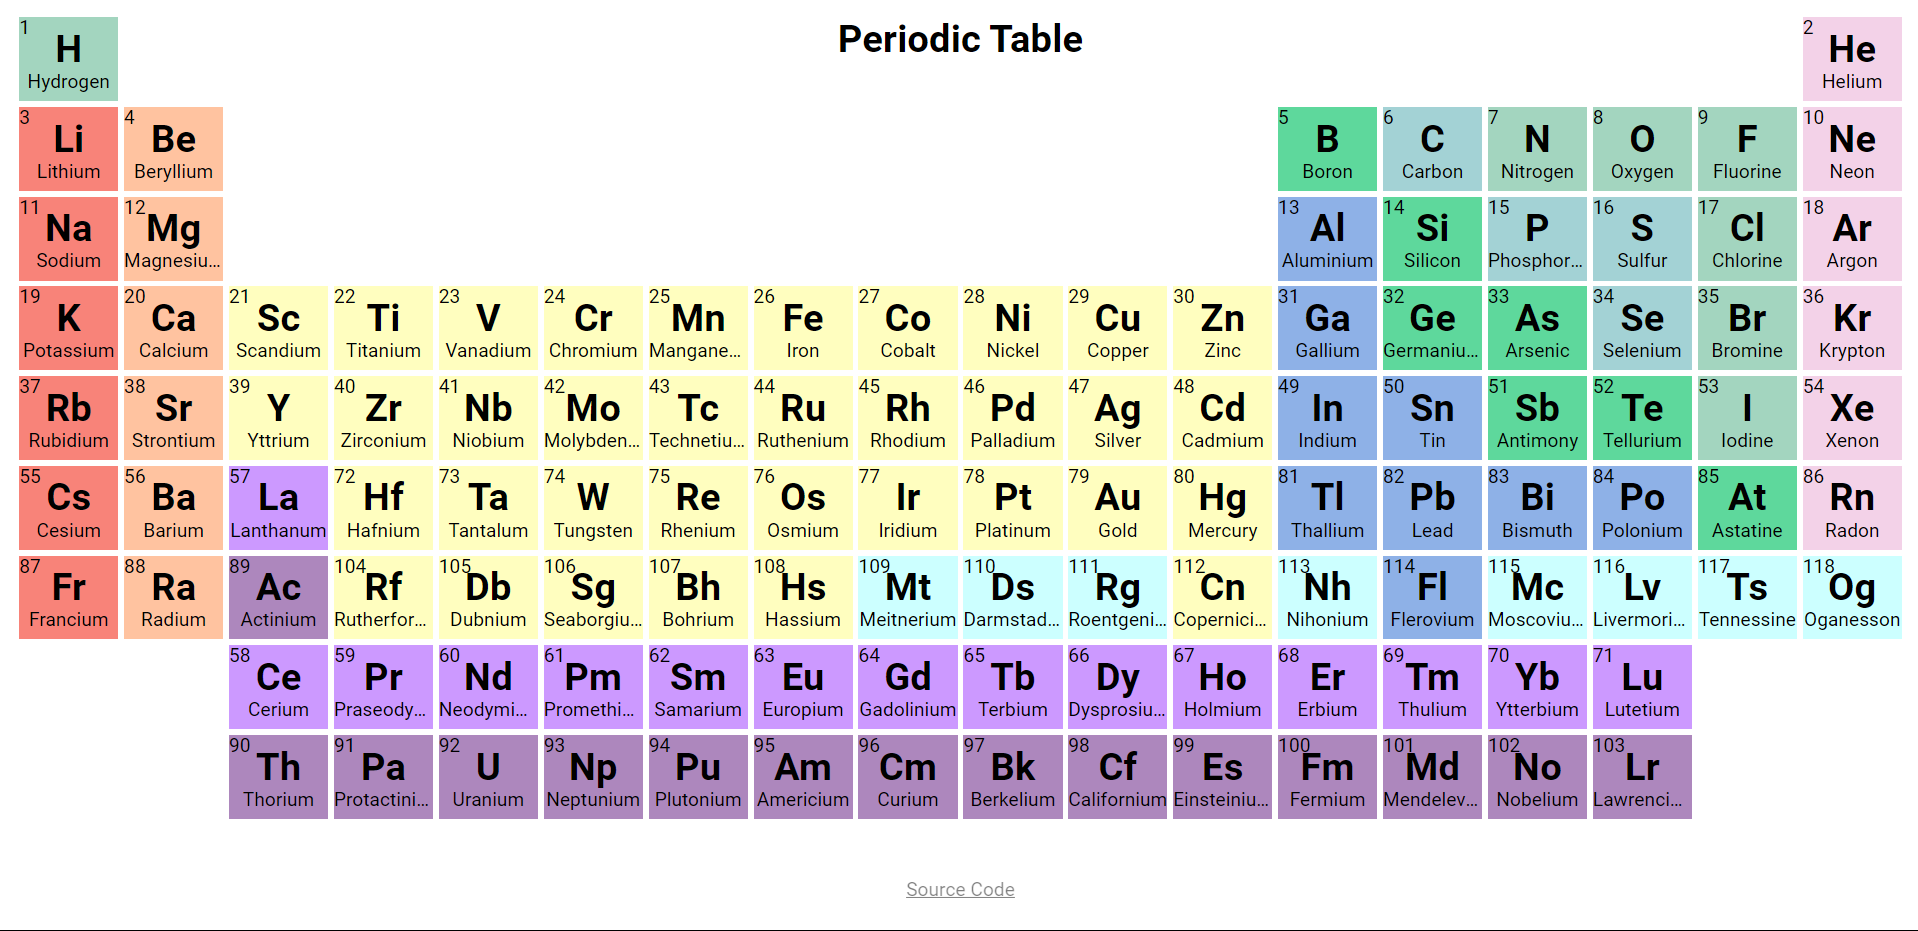
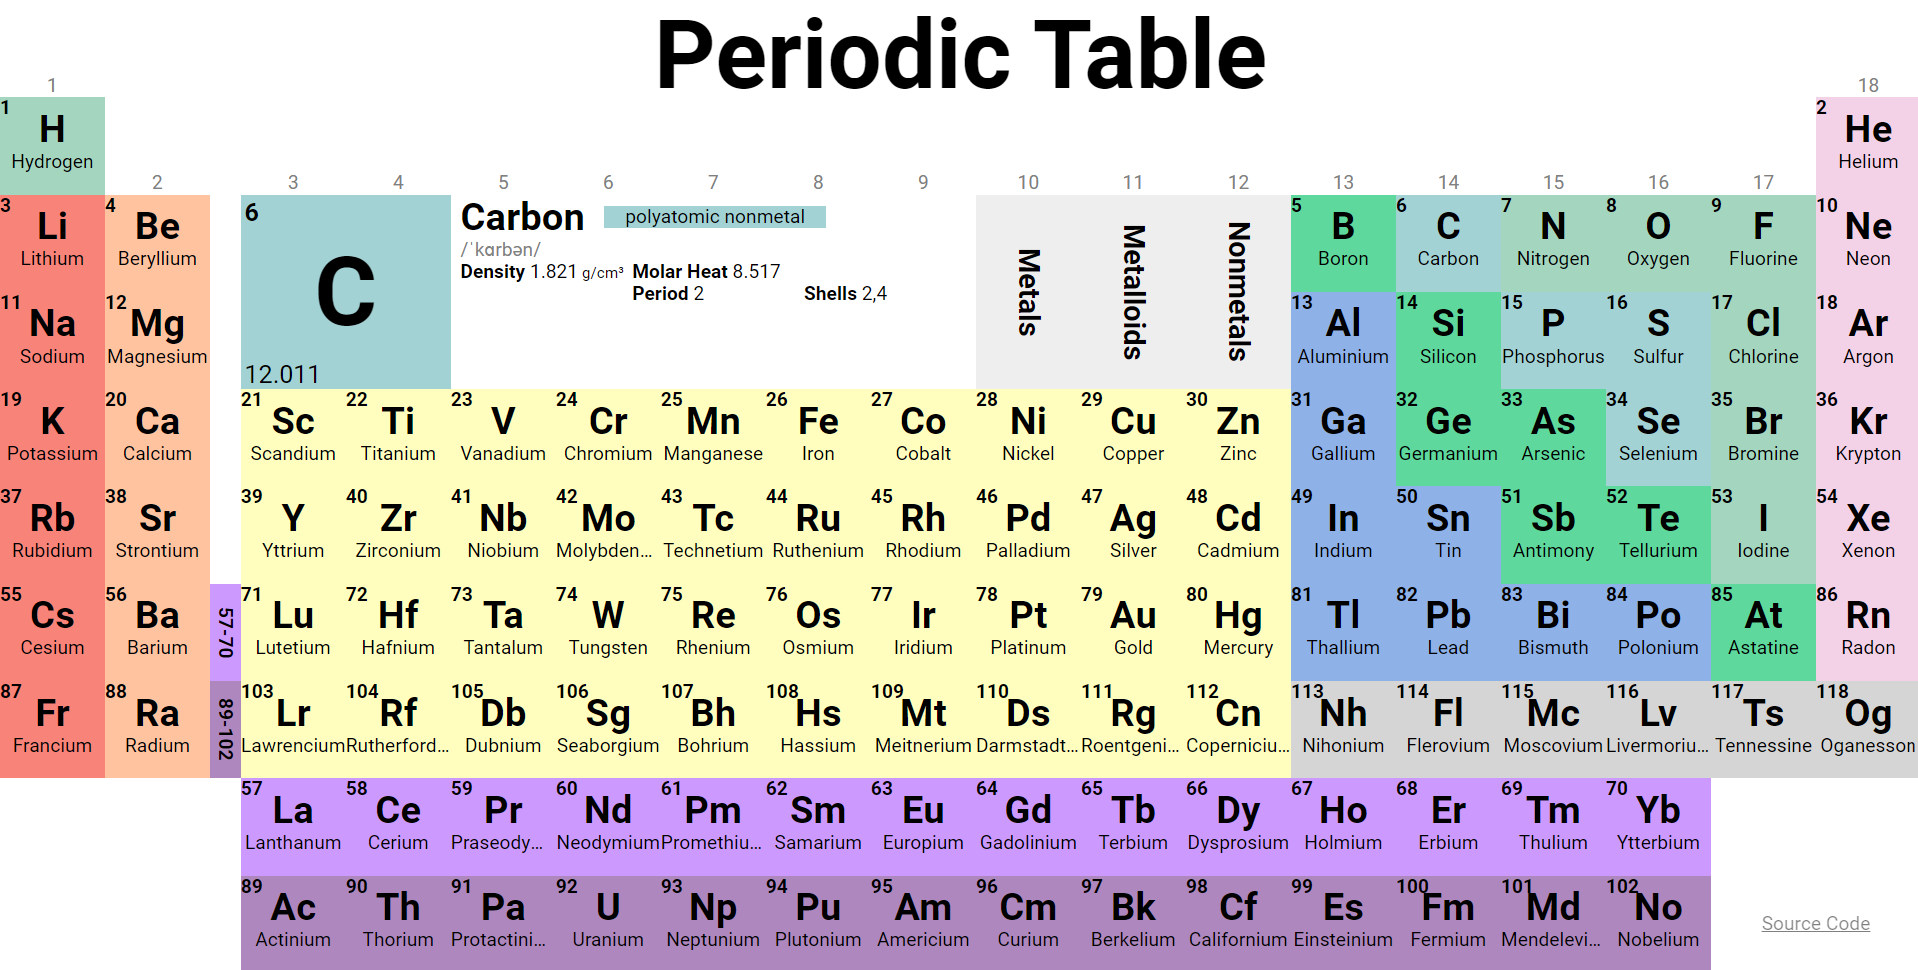
a

diff --git a/src/components/InfoBox.tsx b/src/components/InfoBox.tsx
@@ -18,6 +18,8 @@ export default function InfoBox({ element/* , handlecloseInfo */ }) {
     density,
     melt,
     boil,
+    shells,
+    period,
   } = element
 
   return (
@@ -35,40 +37,41 @@ export default function InfoBox({ element/* , handlecloseInfo */ }) {
         >
           Close [&times;]
         </div> */}
-        <div>
-          <div style={
-            {
-              display: 'flex',
-              gap: '1vw',
-              alignItems: 'center',
-            }
-          }>
-            <h1 className='big_title'>{name}</h1>
-            <span className={`${category}`} style={{
-              padding: '0 1.1vw',
-            }}
+        <div style={
+          {
+            display: 'flex',
+            gap: '1vw',
+            alignItems: 'center',
+          }
+        }>
+          <h1 className='big_title'>{name}</h1>
+          <span className={`${category}`} style={{
+            padding: '0 1.1vw',
+          }}
 
-            >{category}</span>
+          >{category}</span>
+        </div>
+        <div className='ipa' style={{ color: 'gray' }}>/{getIPA(symbol)}/</div>
+       
+        <div className='atom_info'>
+          <div> {density && <><strong>Density</strong> {density}<small> g/cm³</small></>}</div>
+          <div> {molar_heat && <><strong>Molar Heat</strong> {molar_heat}</>}</div>
+          <div> {melt && <><strong>Melt</strong> {melt}K</>}</div>
+          <div> {boil && <><strong>Boil</strong> {boil}K</>}</div>
+          <div> {period && <strong>Period</strong>} {period}</div>
+          <div> {shells && <><strong>Shells</strong> {shells.join(",")}</>}</div>
+        </div>
+        {appearance && (
+          <div className='appearance'>
+            <strong>Appearance</strong> {appearance}
           </div>
-          <div className='ipa' style={{color: 'gray'}}>/{getIPA(symbol)}/</div>
-          {appearance && (
-            <div className='appearance'>
-              <strong>Appearance</strong> {appearance}
-            </div>
-          )}
-          <div className='atom_info'>
-            <div><strong>Density</strong> {density}</div>
-            {molar_heat && <div><strong>Molar Heat</strong> {molar_heat}</div>}
-            {melt && <div><strong>Melt</strong> {melt}K</div>}
-            {boil && <div><strong>Boil</strong> {boil}K</div>}
-          </div>
-          {/*           <div>
+        )}
+        {/*           <div>
             {summary} ...{" "}
             <a target='_blank' href={source}>
               Source
             </a>
           </div> */}
-        </div>
       </div>
     </>
   )

diff --git a/src/App.tsx b/src/App.tsx
@@ -30,6 +30,11 @@ export default function App() {
     <>
       <div id='table'>
         <h1 id="site-title">Periodic Table</h1>
+        {/* groups 1-18 */}
+
+        {Array.from(Array(18).keys()).map((i) => (
+          <div key={i} className={`group-num group-num-${i + 1}`}>{i + 1}</div>
+        ))}
         {/* Elements 1-4 */}
         {populateElements(1, 4)}
         {/* Information Table */}
@@ -46,6 +51,13 @@ export default function App() {
         <div></div>
         {populateElements(39, 56)}
         <div
+          style={{
+            width: '1.6vmax',
+            display: 'flex',
+            justifyContent: 'center',
+            alignItems: 'center',
+            writingMode: 'vertical-rl',
+          }}
           className={`element lanthanide`}
         >
           <div className='number'>57-70</div>
@@ -55,6 +67,13 @@ export default function App() {
 
 
         <div
+          style={{
+            width: '1.6vmax',
+            display: 'flex',
+            justifyContent: 'center',
+            alignItems: 'center',
+            writingMode: 'vertical-rl',
+          }}
           className={`element actinide`}
         >
           <div className='number'>89-102</div>
@@ -65,23 +84,26 @@ export default function App() {
         {populateElements(57, 70)}
         {/* Actionoids 90-103 */}
         {populateElements(89, 102)}
+
+        <div
+          style={{
+            gridColumn: '-3 / -1',
+            textAlign: 'center',
+            display: 'flex',
+            justifyContent: 'center',
+            alignItems: 'center'
+          }}
+        >
+          <a style={{
+            textDecoration: 'underline',
+            opacity: '0.5',
+            textAlign: 'center',
+          }}
+            href="https://github.com/adielBm/periodic-table" target="_blank" rel="noreferrer">Source Code</a>
+        </div>
+
       </div>
-      <div
-        style={{
-          position: 'fixed',
-          left: '50%',
-          bottom: '1vw',
-          transform: 'translate(-50%, -50%)',
-          margin: '0 auto'
-        }}
-      >
-        <a style={{
-          textDecoration: 'underline',
-          opacity: '0.5',
-          textAlign: 'center',
-        }}
-          href="https://github.com/adielBm/periodic-table" target="_blank" rel="noreferrer">Source Code</a>
-      </div>
+
     </>
   )
 }

diff --git a/src/styles/main.css b/src/styles/main.css
@@ -25,9 +25,8 @@ html {
 
 body {
   margin: 0;
-  padding: 1vw;
   font-family: Roboto, arial, sans-serif;
-  font-size: 1vw;
+  font-size: 1vmax;
 }
 
 /**
@@ -433,16 +432,21 @@ a {
 }
 
 #site-title {
-  grid-column: 2 / 18;
+  grid-column: 2 / 19;
   grid-row: 1 / 2;
   text-align: center;
+  font-size: 5vmax;
 }
+
+.group-num.group-num-2 {
+  grid-column-start: 2;
+}
+
 
 #table {
   display: grid;
-  gap: 0.3vw;
-  grid-template-columns: repeat(19, 1fr);
-  grid-auto-rows: 9vh;
+  grid-template-columns: repeat(2, 1fr) auto repeat(16, 1fr);
+  grid-auto-rows: 9vmin;
 }
 
 .element {
@@ -458,8 +462,8 @@ a {
 .symbol {
   font-weight: bold;
   text-align: center;
-  margin-top: 0.5vw;
-  font-size: 2vw;
+  margin-top: 0.5vmax;
+  font-size: 2vmax;
 }
 
 .element-name {
@@ -469,31 +473,31 @@ a {
 }
 
 #element-box .symbol {
-  font-size: 5vw;
+  font-size: 5vmax;
   margin: auto;
 }
 
 #element-box {
-  grid-column: 3 / 5;
-  grid-row: 2 / 4;
+  grid-column: 4 / 6;
+  grid-row: 3 / 5;
   margin: 0;
   display: flex;
-  padding: 0.2vw;
+  padding: 0.2vmax;
   overflow: hidden;
   position: relative;
-  font-size: 1.3vw;
+  font-size: 1.3vmax;
 }
 
 /* Information Table  */
 #information {
-  grid-column: 5/13;
-  grid-row: 2/4;
-  padding-left: 0.5vw;
+  grid-column: 6 / 11;
+  grid-row: 3 / 5;
+  padding-left: 0.5vmax;
 }
 
 .atomic-mass {
   position: absolute;
-  right: 0;
+  bottom: 0;
 }
 
 .cat_name {
@@ -514,7 +518,32 @@ a {
 }
 
 .atom_info {
+  display: grid;
+  grid-template-columns: repeat(3, 1fr);
 }
+
+.element-1 {
+  grid-column: 1;
+  grid-row: 2;
+}
+.group-num.group-num-18 {
+  grid-row: 1;
+  grid-column: -1 / -2;
+}
+
+.group-num-1 {
+  grid-column-start: 1;
+}
+.group-num-3 {
+  grid-column-start: 4;
+}
+.group-num {
+  display: flex;
+  color: gray;
+  justify-content: center;
+  align-items: flex-end;
+}
+
 
 /* Helium to the top right  */
 .element-2 {
@@ -621,13 +650,13 @@ a {
 }
 
 .group-btn {
-  grid-row: 2 / 4;
+  grid-row:3 / 5;
   background: rgb(238, 238, 238);
   writing-mode: vertical-rl;
   display: flex;
   justify-content: center;
   align-items: center;
-  font-size: 1.5vw;
+  font-size: 1.5vmax;
   font-weight: bold;
   cursor: default;
 }
